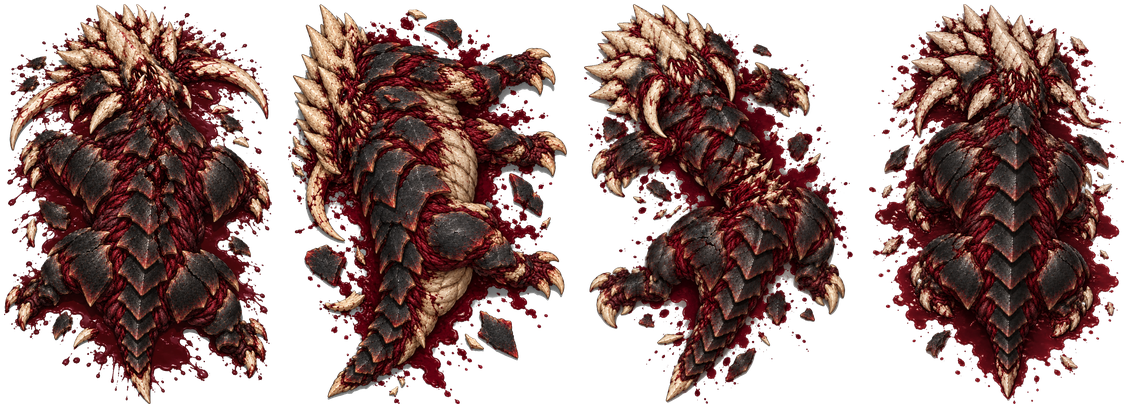
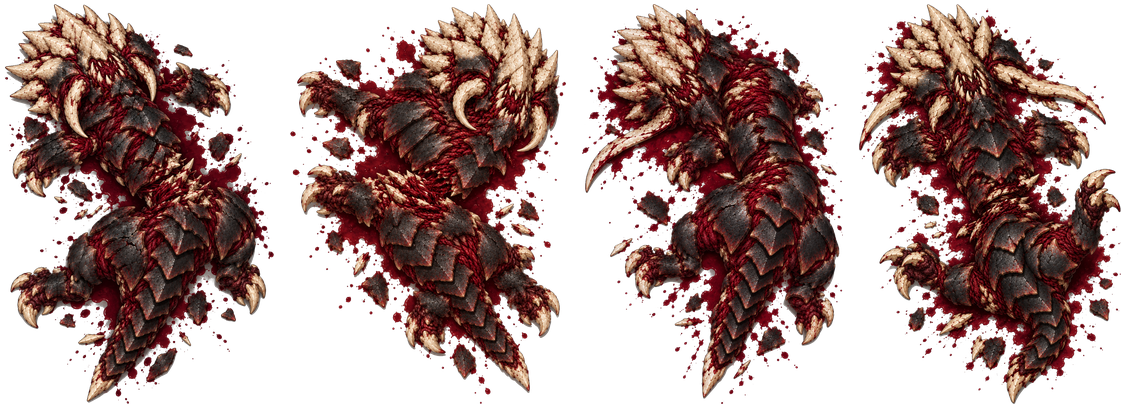
Matriarch: the owner's picks, broken-back corpse and longer scythes
Corpse round 1 #5 (broken back) and three variants generated from it are the
four corpse poses. The scythes are 1.4x longer about their pivots so the reap
reads past the crown; their sprites are now centred on the pivot. The matriarch
scene gains a corpses loop laying one body in each pose.

diff --git a/src/test/java/com/dillon/starsectormarines/battle/evacuation/MatriarchScene.java b/src/test/java/com/dillon/starsectormarines/battle/evacuation/MatriarchScene.java
@@ -1,5 +1,6 @@
 package com.dillon.starsectormarines.battle.evacuation;
 
+import com.dillon.starsectormarines.battle.component.BattleComponents;
 import com.dillon.starsectormarines.battle.evacuation.MatriarchActions.Action;
 import com.dillon.starsectormarines.battle.evacuation.MatriarchActions.Kind;
 import com.dillon.starsectormarines.battle.mech.MechRole;
@@ -34,6 +35,7 @@ import java.util.Map;
  *       never a scythe.</li>
  *   <li>{@code fort-wall}: marines in a building whose walls stand at a fort building's strength, more
  *       than a Brute could break, with a door on the far side. It breaks in through the near wall.</li>
+ *   <li>{@code corpses}: four Matriarchs killed where they stand, each laid in one of the four corpse poses.</li>
  * </ul>
  */
 public final class MatriarchScene implements BehaviorScene {
@@ -52,7 +54,53 @@ public final class MatriarchScene implements BehaviorScene {
     public List<SceneReport> play(FrameSink frames) throws Exception {
         List<SceneReport> reports = new ArrayList<>();
         for (String loop : List.of("reap", "mech-lance", "fort-wall")) reports.add(playOne(loop, frames));
+        reports.add(corpses(frames));
         return reports;
+    }
+
+    /** Where the {@code corpses} loop lays its four Matriarchs, and the tick it kills them. */
+    static final int[][] CORPSE_CELLS = {{6, 12}, {13, 12}, {20, 12}, {27, 12}};
+    private static final int KILL_TICK = 20;
+
+    private SceneReport corpses(FrameSink frames) throws Exception {
+        NavigationGrid grid = new NavigationGrid(34, 24);
+        for (int y = 0; y < 24; y++) for (int x = 0; x < 34; x++) grid.setWalkableFloor(x, y);
+        SceneWorld world = SceneBuilder.over(grid, new CellTopology(34, 24)).seed(20261021L)
+                .missionCompletion(false).build();
+        try (BattleSimulation sim = world.sim()) {
+            long[] bodies = new long[CORPSE_CELLS.length];
+            for (int i = 0; i < bodies.length; i++) {
+                bodies[i] = sim.spawn(SwarmStrains.spec("Matriarch " + (i + 1), UnitType.SWARM_MATRIARCH,
+                        CORPSE_CELLS[i][0], CORPSE_CELLS[i][1]));
+            }
+            TickObserver kill = (s, tick) -> {
+                if (tick == KILL_TICK) {
+                    for (long body : bodies) s.applyDamage(body, 0L, 1_000_000f, 100f, 0f);
+                } else if (tick == KILL_TICK + 1) {
+                    // A death pose is picked off the body; the review lays each in its own, in sheet order.
+                    BattleComponents c = s.getBattleComponents();
+                    for (int i = 0; i < bodies.length; i++) {
+                        if (s.getEntityWorld().has(bodies[i], c.SPRITE)) {
+                            s.getEntityWorld().setInt(bodies[i], c.SPRITE, BattleComponents.SPRITE_INDEX, i);
+                        }
+                    }
+                }
+            };
+            int ticks = 90;
+            SceneRun.of(world).observe(kill)
+                    .frames(frames, "corpses", 3, tick -> "corpses / matriarch / tick " + tick)
+                    .run(ticks);
+            int lying = 0;
+            for (long body : bodies) {
+                if (!sim.getRoster().isAliveById(body)
+                        && sim.getEntityWorld().has(body, sim.getBattleComponents().CORPSE)) lying++;
+            }
+            List<Verdict> verdicts = List.of(Verdict.of("lies-where-it-fell", lying == bodies.length,
+                    lying + " of " + bodies.length + " killed Matriarchs left a corpse"));
+            Map<String, Number> metrics = new LinkedHashMap<>();
+            metrics.put("corpses", lying);
+            return new SceneReport(id(), "corpses", ticks, verdicts, metrics);
+        }
     }
 
     private SceneReport playOne(String loop, FrameSink frames) throws Exception {

diff --git a/art-source/rav-redesign/export_matriarch_rig.py b/art-source/rav-redesign/export_matriarch_rig.py
@@ -11,11 +11,12 @@ Writes mod/graphics/battle/rav-matriarch/*.png, every sprite head-up (forward is
                        and columns are the sprite's, times SCALE
   head.png, gape.png   the straight-ahead head and its roar, rows 0..HEAD_ROWS of the canvas, full width;
                        both pivot at the neck
-  scythe-l/r.png       each scythe cut from the hero, cropped to SCYTHE_BOX; it turns about its PIVOT
+  scythe-l/r.png       each scythe cut from the hero and lengthened BLADE_SCALE about its PIVOT, on a canvas
+                       centred on the pivot (SCYTHE_HALF each way), so the sprite turns about its own centre
   foot-fl/fr/hl/hr.png each foot cut from the hero, centred on the foot
   shank-f/h-l/r.png    the leg layers, the hip end at the top, SHANK_W layer px wide
 
-`RavMatriarchComposer` holds the matching numbers (SCALE, HEAD_ROWS, SCYTHE_BOX, PIVOT, NECK, SHANK_W);
+`RavMatriarchComposer` holds the matching numbers (SCALE, HEAD_ROWS, PIVOT, NECK, SHANK_W);
 keep it in step when anything here changes. The script prints them.
 """
 import sys
@@ -26,14 +27,14 @@ from PIL import Image
 
 HERE = Path(__file__).parent
 sys.path.insert(0, str(HERE / "exploration"))
-from motion_brute import key, largest_blob, soft_mask, with_alpha  # noqa: E402
-from motion_matriarch import (FEET, HEAD_POLY, NECK, PIVOT, RAW, SCYTHE_POLY, SHANK_W, STRAIGHT,  # noqa: E402
+from motion_brute import key, largest_blob, scale_about, soft_mask, with_alpha  # noqa: E402
+from motion_matriarch import (BLADE_SCALE, FEET, HEAD_POLY, NECK, PIVOT, RAW, SCYTHE_POLY, SHANK_W, STRAIGHT,  # noqa: E402
                               STRAIGHT_GAPE, poly_mask, trim)
 
 OUT = HERE.parent.parent / "mod" / "graphics" / "battle" / "rav-matriarch"
 SCALE = 0.4          # sprite px per layer px
 HEAD_ROWS = 672      # the head sprites are the top of the canvas, down past the neck and the soft edge
-SCYTHE_BOX = {"L": (330, 300, 520, 640), "R": (670, 230, 930, 600)}
+SCYTHE_HALF = (360, 480)   # the scythe canvas reaches this far from the pivot each way, layer px
 
 
 def scaled(img):
@@ -79,11 +80,15 @@ def main():
         scaled(lay.crop((0, 0, size[0], HEAD_ROWS))).save(OUT / out)
 
     for side, m in blade_m.items():
-        cut = with_alpha(hero, ha * m)
+        px, py = PIVOT[side]
+        hx, hy = SCYTHE_HALF
+        pad = Image.new("RGBA", (size[0] + 2 * hx, size[1] + 2 * hy), (0, 0, 0, 0))
+        pad.alpha_composite(with_alpha(hero, ha * m), (hx, hy))
+        pad = scale_about(pad, BLADE_SCALE, (px + hx, py + hy))
+        cut = pad.crop((px, py, px + 2 * hx, py + 2 * hy))       # centred on the pivot
         bbox = cut.getchannel("A").point(lambda v: 255 if v > 8 else 0).getbbox()
-        box = SCYTHE_BOX[side]
-        assert box[0] <= bbox[0] and box[1] <= bbox[1] and box[2] >= bbox[2] and box[3] >= bbox[3], (side, bbox)
-        scaled(cut.crop(box)).save(OUT / f"scythe-{side.lower()}.png")
+        assert bbox[0] > 0 and bbox[1] > 0 and bbox[2] < 2 * hx and bbox[3] < 2 * hy, (side, bbox)
+        scaled(cut).save(OUT / f"scythe-{side.lower()}.png")
 
     for n, (m, (cx, cy), (rx, ry)) in feet.items():
         r = int(max(rx, ry) + 16)   # past the soft edge; square and centred on the foot
@@ -101,7 +106,7 @@ def main():
 
     for p in sorted(OUT.glob("*.png")):
         print(p.name, Image.open(p).size)
-    print("SCALE", SCALE, "HEAD_ROWS", HEAD_ROWS, "SCYTHE_BOX", SCYTHE_BOX, "PIVOT", PIVOT, "NECK", NECK,
+    print("SCALE", SCALE, "HEAD_ROWS", HEAD_ROWS, "BLADE_SCALE", BLADE_SCALE, "PIVOT", PIVOT, "NECK", NECK,
           "SHANK_W", SHANK_W)
 
 

diff --git a/src/main/java/com/dillon/starsectormarines/ops/battleview/RavMatriarchComposer.java b/src/main/java/com/dillon/starsectormarines/ops/battleview/RavMatriarchComposer.java
@@ -5,8 +5,9 @@ import com.dillon.starsectormarines.battle.appearance.RavMatriarchRig;
 /**
  * Draws a Matriarch from its skeleton, seen from above, as the approved motion study 4 draws it: a shank
  * from inside the body down to each foot, the feet over them, the body over both along the line from the
- * hips to the shoulders, the scythes about their pivots under the crown's rim, and the head on top. A
- * scythe swung forward past the crown's rim crosses over the head. Ported from
+ * hips to the shoulders, the scythes about their pivots under the crown's rim (long enough that the reap
+ * reads past the crown), and the head on top. A scythe swung forward past the crown's rim crosses over the
+ * head. Ported from
  * {@code art-source/rav-redesign/exploration/motion_matriarch.py}.
  */
 final class RavMatriarchComposer {
@@ -17,9 +18,8 @@ final class RavMatriarchComposer {
     /** Layer rows: the canvas centre, the neck pivot, and the head sprites' centre (they are rows 0..672). */
     private static final float CANVAS_CENTRE_ROW = 768f, NECK_ROW = 470f, HEAD_CENTRE_ROW = 336f;
     private static final float CENTRE_COL = 512f;
-    /** Each scythe's pivot and its sprite's centre, layer px; left then right. */
+    /** Each scythe's pivot, layer px, left then right; its sprite is centred on it. */
     private static final float[][] PIVOT = {{458f, 360f}, {705f, 300f}};
-    private static final float[][] SCYTHE_CENTRE = {{425f, 470f}, {800f, 415f}};
     /** Past this swing a scythe has crossed the crown's rim and is drawn over the head. */
     private static final float OVER_HEAD_DEGREES = 70f;
     /** The arm reaches forward this many times its outward reach as it swings. */
@@ -120,13 +120,8 @@ final class RavMatriarchComposer {
         float[] p = new float[2];
         layerPoint(PIVOT[side][0], PIVOT[side][1], shX + sign * reach, shY + FORWARD_REACH * reach, axX, axY,
                 lc, ls, cx, cy, ppc, fx, fy, p);
-        // the sprite's centre from its pivot, in screen px, turned with the body and the swing
-        float vx = (SCYTHE_CENTRE[side][0] - PIVOT[side][0]) / U * ppc;
-        float vy = -(SCYTHE_CENTRE[side][1] - PIVOT[side][1]) / U * ppc;
-        double r = Math.toRadians(bodyAngle + swing);
-        float c = (float) Math.cos(r), s = (float) Math.sin(r);
         LayeredSpriteCache blade = art.scythe[side];
-        out.addSprite(RenderLayer.UNITS, blade.sprite, p[0] + vx * c - vy * s, p[1] + vx * s + vy * c,
+        out.addSprite(RenderLayer.UNITS, blade.sprite, p[0], p[1],
                 blade.pxWidth * spritePx, blade.pxHeight * spritePx, bodyAngle + swing, 1f, 1f, 1f, alpha);
     }
 

diff --git a/art-source/rav-redesign/export_matriarch_corpse.py b/art-source/rav-redesign/export_matriarch_corpse.py
@@ -5,8 +5,8 @@ length (`UnitType.SWARM_MATRIARCH.renderScale`, 4.5 cells).
 
   python export_matriarch_corpse.py [raw.png ...]
 
-With no arguments it exports the provisional sheet: four of the six corpse round 1 concepts
-(exploration/matriarch/corpse-1/raw/), standing in until the owner picks one and its four poses are made.
+With no arguments it exports the shipped sheet: the owner's pick from corpse round 1 (#5, broken back,
+2026-10-21) and its three variants from exploration/matriarch/corpse-2/raw/.
 Writes mod/graphics/battle/rav-matriarch-dead.png.
 """
 import sys
@@ -21,7 +21,8 @@ from export_corpses import column_groups, one_frame  # noqa: E402
 from motion_brute import key  # noqa: E402
 
 OUT = HERE.parent.parent / "mod" / "graphics" / "battle" / "rav-matriarch-dead.png"
-PROVISIONAL = [HERE / "exploration" / "matriarch" / "corpse-1" / "raw" / f"c{i}.png" for i in (1, 2, 5, 6)]
+SHIPPED = [HERE / "exploration" / "matriarch" / "corpse-1" / "raw" / "c5.png"] + [
+    HERE / "exploration" / "matriarch" / "corpse-2" / "raw" / f"v{i}.png" for i in (1, 2, 3)]
 FRAME_LONG = 400
 GAP = 16
 PAD = 4
@@ -55,4 +56,4 @@ def main(paths):
 
 
 if __name__ == "__main__":
-    main([Path(p) for p in sys.argv[1:]] or PROVISIONAL)
+    main([Path(p) for p in sys.argv[1:]] or SHIPPED)

diff --git a/art-source/rav-redesign/exploration/reap_options.py b/art-source/rav-redesign/exploration/reap_options.py
@@ -4,7 +4,7 @@ at play zoom (32 px per cell), one GIF each.
 
   python reap_options.py <render root> <out dir>
 
-  A-now           the approved study, as the game draws it
+  A-now           the study before the pick (the owner chose B, now the default)
   B-longer        scythes 1.4x longer, so the blade clears the crown's rim
   C-further-out   scythes mounted 0.35 cells further out from the body
   D-with-head     the scythes turn with the head as it turns toward each blade
@@ -17,7 +17,7 @@ from matriarch_skeleton import FPS, S_BACK, S_HOLD, S_LASH, S_WIND, STRIKES
 from motion import save_gif
 
 VARIANTS = [
-    ("A-now", "NOW (in game)", dict()),
+    ("A-now", "AS IT WAS", dict(BLADE_SCALE=1.0)),
     ("B-longer", "LONGER SCYTHES", dict(BLADE_SCALE=1.4)),
     ("C-further-out", "MOUNTED FURTHER OUT", dict(BLADE_OUT=0.35)),
     ("D-with-head", "TURNED WITH THE HEAD", dict(BLADE_WITH_HEAD=True)),

diff --git a/art-source/rav-redesign/exploration/motion_matriarch.py b/art-source/rav-redesign/exploration/motion_matriarch.py
@@ -62,8 +62,9 @@ STRAIGHT_GAPE = (0.715, (511.5, 11), (512, 20))
 HEAD_TURN = 0            # degrees the crown-and-head layer is turned; the owner tried 180 and rejected it
 HEAD_TURN_Y = 300        # hero row it turns about
 FOOT_SCALE = 1.1
-# Reap variants for the owner's pick (reap_options.py); the defaults are the approved study and the game.
-BLADE_SCALE = 1.0        # scythe length, scaled about its pivot
+# Reap variants (reap_options.py); the defaults are the shipped design. The owner picked the longer scythes
+# (option B, 2026-10-21) so the reap reads past the crown.
+BLADE_SCALE = 1.4        # scythe length, scaled about its pivot
 BLADE_OUT = 0.0          # cells the scythes are mounted further out from the body
 BLADE_WITH_HEAD = False  # the scythes turn with the head about the neck
 

diff --git a/src/test/java/com/dillon/starsectormarines/battle/evacuation/MatriarchSceneSnapshotSuite.java b/src/test/java/com/dillon/starsectormarines/battle/evacuation/MatriarchSceneSnapshotSuite.java
@@ -18,11 +18,13 @@ public final class MatriarchSceneSnapshotSuite extends BehaviorSceneSnapshotSuit
 
     @Override
     protected float[] closeView(String loopId) {
+        if (loopId.equals("corpses")) return new float[]{17f, 12f, 30f};
         return new float[]{12f, 12f, CLOSE_CELLS};
     }
 
     @Override
     protected float[] closeView(String loopId, BattleSimulation sim) {
+        if (loopId.equals("corpses")) return closeView(loopId);
         for (int i = 0, n = sim.liveUnitCount(); i < n; i++) {
             long unit = sim.liveUnitAt(i);
             if (sim.identity().type(unit) == UnitType.SWARM_MATRIARCH) {

diff --git a/roadmap/colony-breach/stories/matriarch.md b/roadmap/colony-breach/stories/matriarch.md
@@ -1,8 +1,8 @@
 # Matriarch
 
-Status: IN PROGRESS — strain, mother-only rule, beat, behaviour, rig and `matriarch` scene shipped; the corpse sheet is provisional (four corpse round 1 concepts) until the owner picks one
+Status: IN PROGRESS — strain, mother-only rule, beat, behaviour, rig, corpse and `matriarch` scene shipped; its own sounds remain
 
-Updated: 2026-10-21 — in game; remaining: corpse poses, own sounds
+Updated: 2026-10-21 — owner picks shipped: corpse E (broken back, four poses) and longer scythes
 
 Written: 2026-10-21
 
@@ -20,7 +20,5 @@ Stages: `rav-growth-stages.md` sets her growth stage from the mother bore's feed
 
 ## Remaining
 
-- Corpse: the owner picks from corpse round 1; make four poses of it and
-  re-run `export_matriarch_corpse.py` with them.
 - Its own sounds (it borrows the Brute's).
 - Then fold into the noun doc (already carries the model) and retire.
